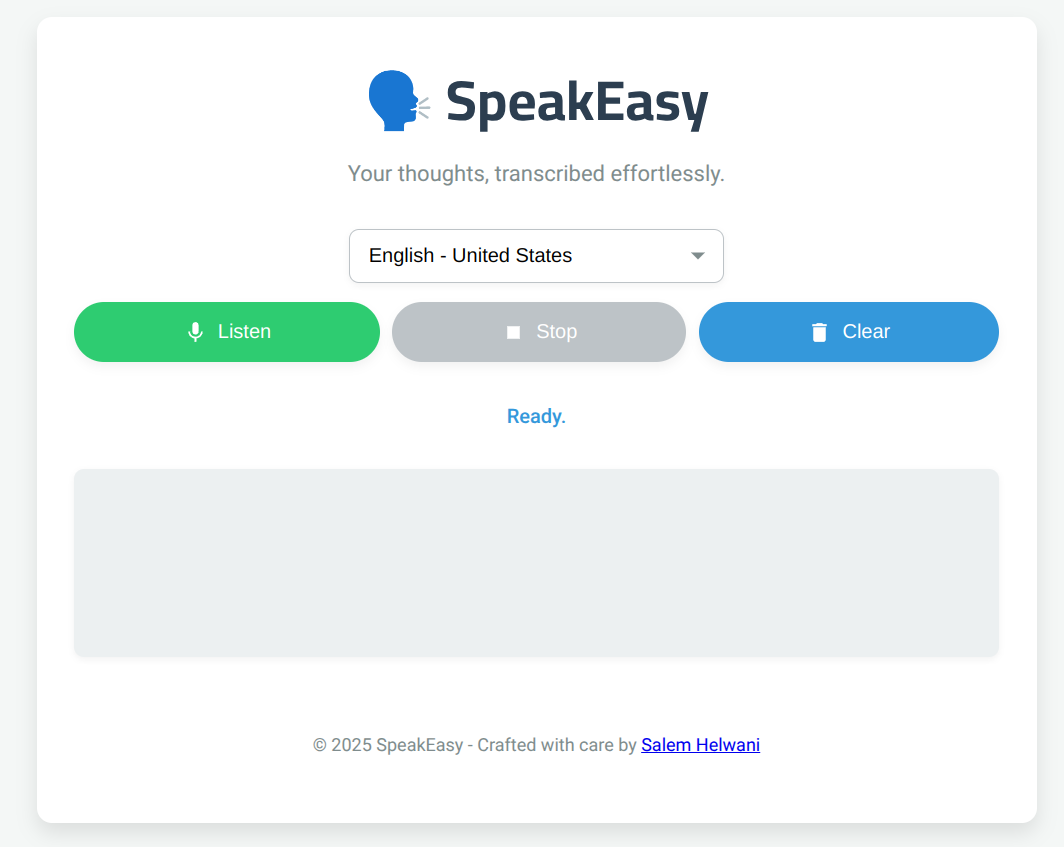
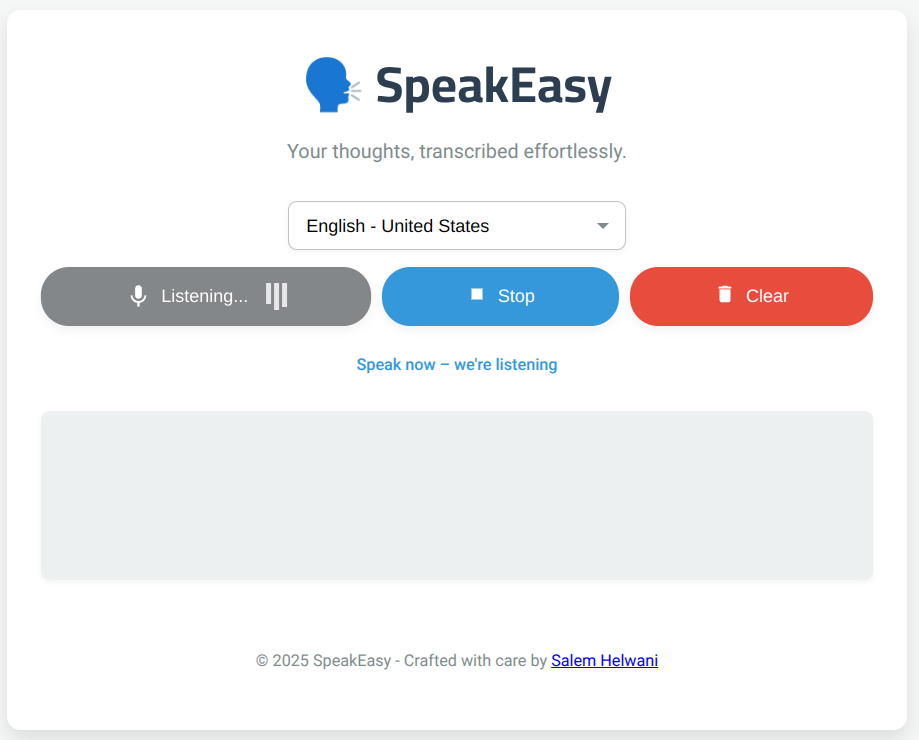
bugfix: enhance the logic and styling of control buttons

diff --git a/script.js b/script.js
@@ -8,9 +8,13 @@ const clearButton = document.getElementById("clearButton");
 let recognition;
 let isListening = false;
 
-// Initialize ARIA live region
-statusDiv.setAttribute("aria-live", "polite");
+// Initial status
+document.addEventListener("DOMContentLoaded", () => {
+    statusDiv.textContent = "Ready.";
+    updateClearButtonState();
+});
 
+// Initialize the SpeechRecognition API
 function initializeRecognition() {
     const SpeechRecognition =
         window.SpeechRecognition || window.webkitSpeechRecognition;
@@ -51,6 +55,7 @@ function startRecognition() {
     if (!recognition) return;
 
     isListening = true;
+    resultDiv.contentEditable = "false";
 
     // Update button state and animations
     startButton.classList.add("listening");
@@ -58,6 +63,7 @@ function startRecognition() {
     statusDiv.textContent = "Speak now – we're listening";
     startButton.disabled = true;
     stopButton.disabled = false;
+    updateClearButtonState();
 
     recognition.onresult = (event) => {
         const transcript =
@@ -87,20 +93,9 @@ function startRecognition() {
 function stopRecognition() {
     if (!isListening) return;
     isListening = false;
-
-    // Update button to processing state
-    startButton.querySelector(".button-text").textContent = "Processing...";
     recognition.stop();
-
-    // Return to default state after delay
-    setTimeout(() => {
-        startButton.classList.remove("listening");
-        startButton.querySelector(".button-text").textContent = "Speak";
-        statusDiv.textContent = "Ready.";
-    }, 2000);
-
-    startButton.disabled = false;
-    stopButton.disabled = true;
+    resultDiv.contentEditable = "true";
+    resetButtonState();
 }
 
 function resetButtonState() {
@@ -108,13 +103,21 @@ function resetButtonState() {
     startButton.querySelector(".button-text").textContent = "Speak";
     startButton.disabled = false;
     stopButton.disabled = true;
+    updateClearButtonState();
 }
 
 function clearText() {
+    if (resultDiv.textContent === "") {
+        return;
+    };
     resultDiv.textContent = "";
-    statusDiv.textContent = "Ready.";
+    resultDiv.contentEditable = isListening ? "false" : "true";
+
 }
 
+function updateClearButtonState() {
+    clearButton.disabled = resultDiv.textContent ? false : true;
+}
 // Event Listeners
 langSelect.addEventListener("change", () => {
     if (recognition && !isListening) {
@@ -130,6 +133,3 @@ langSelect.addEventListener("change", () => {
 startButton.addEventListener("click", startRecognition);
 stopButton.addEventListener("click", stopRecognition);
 clearButton.addEventListener("click", clearText);
-
-// Initial status
-statusDiv.textContent = "Ready.";

diff --git a/styles.css b/styles.css
@@ -136,9 +136,18 @@ button:disabled {
     background-color: #2ecc71;
 }
 
-.listen-button:hover {
+.listen-button:hover:not(:disabled) {
     background-color: #27ae60;
 }
+
+.clear-button {
+    background-color: #e74c3c;
+}
+
+.clear-button:hover:not(:disabled) {
+    background-color: #c0392b;
+}
+
 
 /* Microphone Icon Styles */
 .listen-button .icon {
@@ -161,7 +170,7 @@ button:disabled {
 
     50% {
         transform: scale(1.03);
-}
+    }
 
     100% {
         transform: scale(1);
@@ -180,10 +189,12 @@ button:disabled {
 
 .listen-button.listening {
     animation: pulse 1.5s infinite;
+    -webkit-animation: pulse 1.5s infinite;
 }
 
 .listen-button.listening .icon svg {
     animation: pulse 1.5s infinite;
+    -webkit-animation: pulse 1.5s infinite;
 }
 
 /* Wave Animation */
@@ -202,6 +213,7 @@ button:disabled {
     height: 12px;
     background: rgba(255, 255, 255, 0.8);
     animation: wave 1s ease-in-out infinite;
+    -webkit-animation: wave 1s ease-in-out infinite;
 }
 
 .wave-bar:nth-child(1) {
@@ -214,6 +226,15 @@ button:disabled {
 
 .wave-bar:nth-child(3) {
     animation-delay: 0.5s;
+}
+
+
+/* Status Message */
+.status-message {
+    font-size: 0.9em;
+    color: #3498db;
+    margin-top: 8px;
+    font-weight: 500;
 }
 
 /* Result Section */
@@ -237,14 +258,6 @@ button:disabled {
     outline: none;
 }
 
-/* Status Message */
-.status-message {
-    font-size: 0.9em;
-    color: #3498db;
-    margin-top: 8px;
-    font-weight: 500;
-}
-
 /* Footer */
 footer {
     text-align: center;
@@ -261,17 +274,6 @@ footer {
     height: 1px;
     padding: 0;
     margin: -1px;
-    overflow: hidden;
-    clip: rect(0, 0, 0, 0);
-    white-space: nowrap;
-    border: 0;
-}
-
-#status[aria-live="polite"] {
-    position: absolute;
-    width: 1px;
-    height: 1px;
-    padding: 0;
     overflow: hidden;
     clip: rect(0, 0, 0, 0);
     white-space: nowrap;

diff --git a/index.html b/index.html
@@ -86,6 +86,7 @@
           </button>
           <button
             id="clearButton"
+            class="clear-button"
             title="Clear Text"
             aria-label="Clear transcribed text"
           >
@@ -100,7 +101,7 @@
           </button>
         </div>
 
-        <div id="status" class="status-message" aria-live="polite"></div>
+        <div id="status" class="status-message"></div>
       </section>
 
       <section class="result-container">
@@ -108,7 +109,6 @@
           id="result"
           class="result-text"
           tabindex="0"
-          contenteditable="true"
           aria-label="Speech recognition results"
         ></div>
       </section>
